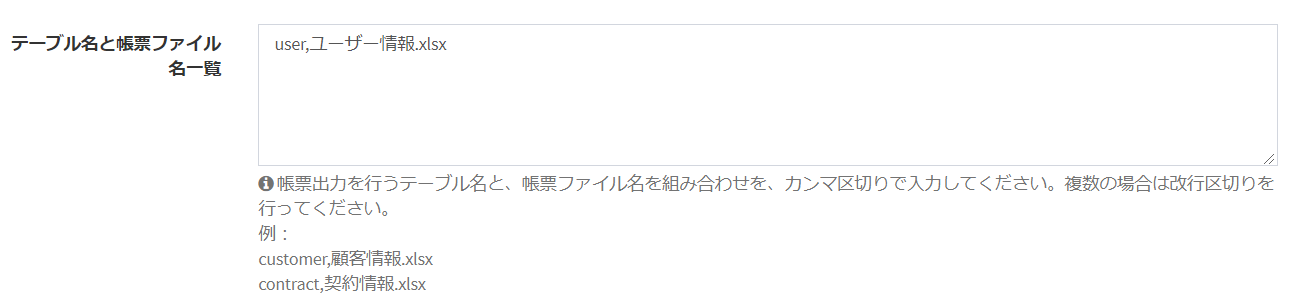
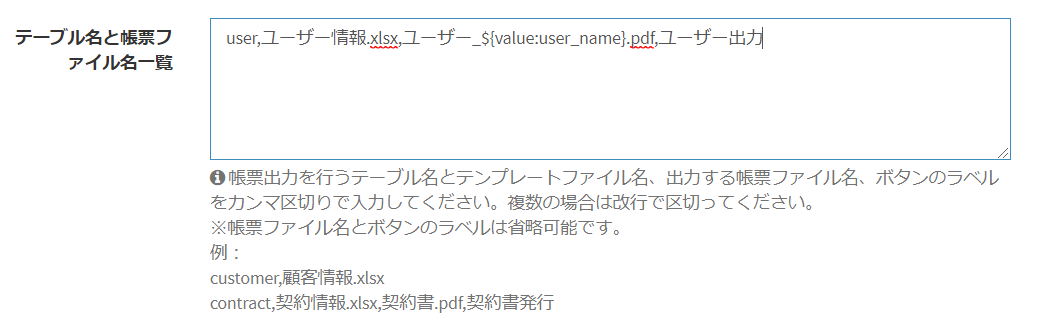
temp commit for docurain

diff --git a/docs/ja/plugin_quickstart_docurain.md b/docs/ja/plugin_quickstart_docurain.md
@@ -1,5 +1,5 @@
 # ドキュメント出力(Docurain)
-Excelとjsonだけで帳票開発ができるクラウド帳票エンジン **Docurain** を使用し、PDF出力またはExcel(xlsx)出力を行います。  
+Excelとjsonだけで帳票開発ができるクラウド帳票エンジン **Docurain** を使用し、PDF出力を行います。  
 
 ## Docurainとは
 Docurainは、Excelとjsonだけで帳票開発ができるクラウド帳票エンジンです。  
@@ -31,7 +31,10 @@ Exmentの開発・運用会社である株式会社カジトリは、Docurainの
 
 ![Docurain](img/docurain/docurain_setting2.png)  
 
-- テーブル名と帳票ファイル名一覧： 帳票出力を行うテーブル名と、帳票ファイル名を組み合わせを、カンマ区切りで入力してください。複数の場合は改行区切りを行ってください。  
+- テーブル名と帳票ファイル名一覧： 帳票出力を行うテーブル名とテンプレートファイル名、出力する帳票ファイル名、ボタンのラベルをカンマ区切りで入力してください。複数の場合は改行区切りを行ってください。  
+※帳票ファイル名を省略した場合はテンプレートファイル名になります。  
+※ボタンのラベルを省略した場合はプラグイン共通で設定したラベルになります。  
+※帳票ファイル名には日付などの[パラメータ](ja/params.md)を含めることができます。
 
 ![Docurain](img/docurain/docurain_setting4.png)  
 
@@ -53,12 +56,15 @@ Exmentの開発・運用会社である株式会社カジトリは、Docurainの
 ![Docurain](img/docurain/docurain_setting8.png)
 ![Docurain](img/docurain/docurain_setting9.png)  
 
-## パラメータ一覧
-Docurainを使用する場合、通常のExmentのパラメータ記載方法とは別の、パラメータ記載方法が必要です。
+### テンプレートExcelファイル作成
+帳票の元となるExcelファイルを作成します。  
+※テンプレートファイルのパラメータは、通常のExmentのパラメータ記載方法とは異なり、Docurain専用の記載方法が必要です。  
 
-## 変数一覧
+#### パラメータ
+テンプレートのExcelファイルに設定するパラメータです。
+Excelセルに特定の形式の変数を入力することで、帳票出力時に、様々な値に変換されます。  
 
-### システム値
+##### システム値
 | 項目 | 説明 |
 | ---- | ---- |
 | ${ENTITY.system.site_name} | システムのサイト名 |
@@ -67,12 +73,25 @@ Docurainを使用する場合、通常のExmentのパラメータ記載方法と
 | ${ENTITY.system.system_url} | システムのホームURL |
 | ${ENTITY.system.login_url} | システムのログインURL |
 
-### データ
+##### データ
 | 項目 | 説明 |
 | ---- | ---- |
-| ${ENTITY.id} | 登録されているデータのIDが設定されます。(例：123) |
-| ${ENTITY.suuid} | 登録されているデータの、suuid(Short UUID. 20桁のランダム文字列))が設定されます。 |
-| ${ENTITY.value_url} | 登録されているデータを表示するリンクが設定されます。 |
-| ${ENTITY.value.(列名)} | 登録されているデータの列の値が設定されます。(例：ユーザーデータに対し、${ENTITY.value.user_code}と記入した場合、ユーザーコードが設定される) |
-| ${ENTITY.select_table.(列名).(参照先のテーブルの列名)} | 「列名」に該当する列が、「選択肢 (他のテーブルの値一覧から選択)」「ユーザー」「組織」の場合、参照先の列の値が設定されます。(例：「顧客情報(customer)」を参照する「契約情報(contract)」テーブルで、顧客名(customer_name)を設定したい場合、${ENTITY.select_table.customer.customer_name}と記入した場合、ユーザーコードが設定される) |
+| ${ENTITY.id} | 対象データのIDが設定されます。(例：123) |
+| ${ENTITY.suuid} | 対象データの、suuid(Short UUID. 20桁のランダム文字列))が設定されます。 |
+| ${ENTITY.value_url} | 対象データを表示するリンクが設定されます。 |
+| ${ENTITY.value.(列名)} | 対象データの列の値が設定されます。(例：ユーザーデータに対し、${ENTITY.value.user_code}と記入した場合、ユーザーコードが設定される) |
+| ${ENTITY.select_table.(列名).(参照先のテーブルの列名)} | 「列名」に該当する列が、「選択肢 (他のテーブルの値一覧から選択)」「ユーザー」「組織」の場合、参照先の列の値が設定されます。(例：「顧客情報(customer)」を参照する「契約情報(contract)」テーブルで、顧客名(customer_name)を設定したい場合、${ENTITY.value.user_code}と記入した場合、ユーザーコードが設定される) |
 | ${ENTITY.parent.(参照先のテーブルの列名)} | 親テーブルの列の値が設定されます。(例：「契約明細情報(contract_detail)」テーブルから、「契約情報(contract)」テーブルの契約コード(contract_code)を参照する場合、${ENTITY.parent.contract_code}と記入した場合、契約コードが設定される) |
+| ${ENTITY.children.(子テーブル名)} | 「#foreach」などのブロック構文を用いて子テーブルの情報を設定します。（子テーブルの情報は複数存在するケースがあるので、${ENTITY.children.(子テーブル名).(子テーブルの列名)}のように設定することはできません）下記で一例を説明します。 |
+
+
+#### 設定例
+##### 基本ルール
+- 多くのEXCEL関数や書式設定が使用可能です。  
+- A列はロジック記述専用の列です。#ifや#foreach、#setなどの処理を記述します。
+
+##### テンプレート   
+![Docurain](img/docurain/docurain_setting10.png)
+
+##### 出力結果   
+![Docurain](img/docurain/docurain_setting11.png)
